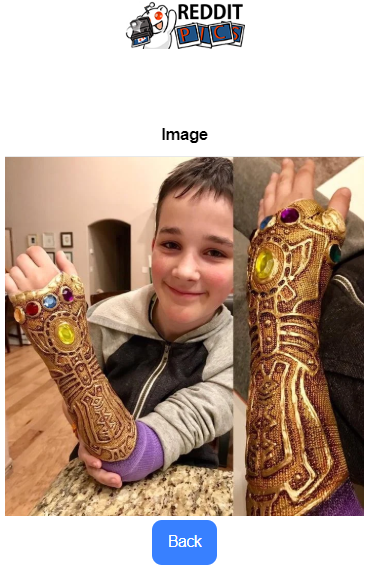
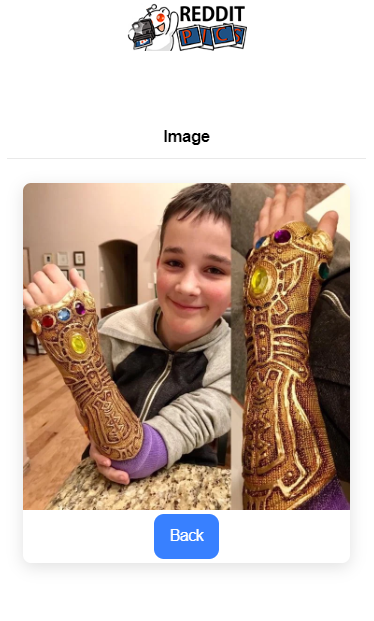
Add new screenshots, add more ionic styling for cards

diff --git a/src/components/RedditList.vue b/src/components/RedditList.vue
@@ -5,17 +5,18 @@
         <ion-title>Reddit Clone /r/pics</ion-title>
       </ion-toolbar>
     </ion-header>
-    <ion-list>
-      <ion-item
+    <!-- <ion-list> -->
+      <ion-card
         v-for="post in posts"
         :key="post.data.id"
         @click="handleClick(post.data.preview.images[0].source.url)"
       >
         <img :src="post.data.thumbnail" alt="thumb" class="thumbnail">
-        <ion-label text-wrap>{{ post.data.title }}</ion-label>
-        <ion-label text-wrap>User: {{ post.data.author }}</ion-label>
-      </ion-item>
-    </ion-list>
+        <h2 text-wrap id="title">{{ post.data.title }}</h2>
+        <ion-card-subtitle text-wrap>User: {{ post.data.author }}</ion-card-subtitle>
+
+      </ion-card>
+    <!-- </ion-list> -->
   </div>
 </template>
 
@@ -51,11 +52,16 @@ export default {
 <!-- Add "scoped" attribute to limit CSS to this component only -->
 <style scoped>
 .thumbnail {
-  width: 60px;
-  height: 60px;
+  width: 90px;
+  height: 90px;
   border-radius: 30px;
-  margin-right: 16px;
   margin-top: 10px;
+  margin-bottom: 10px;
+  display: inline;
+}
+
+#title {
+  text-align: center;
   margin-bottom: 10px;
 }
 </style>

diff --git a/src/views/About.vue b/src/views/About.vue
@@ -5,14 +5,16 @@
         <ion-title>Image</ion-title>
       </ion-toolbar>
     </ion-header>
-    <ion-img :src="imageSrc"></ion-img>
-    <ion-button @click="$router.go(-1)">Back</ion-button>
+    <ion-card>
+      <ion-img :src="imageSrc"></ion-img>
+      <ion-button @click="$router.go(-1)">Back</ion-button>
+    </ion-card>
   </div>
 </template>
 
 <script>
 export default {
-  props: ['imageSrc']
-}
+  props: ["imageSrc"]
+};
 </script>
 

diff --git a/README.md b/README.md
@@ -17,7 +17,8 @@
 
 # Screenshots #
 
-![Screenshot](RedditPics.PNG)
+![Screenshot](IonicReddit.PNG)
+![Screenshot](Reddit.PNG)
 ![Screenshot](RedditDetails.PNG)
 
 
